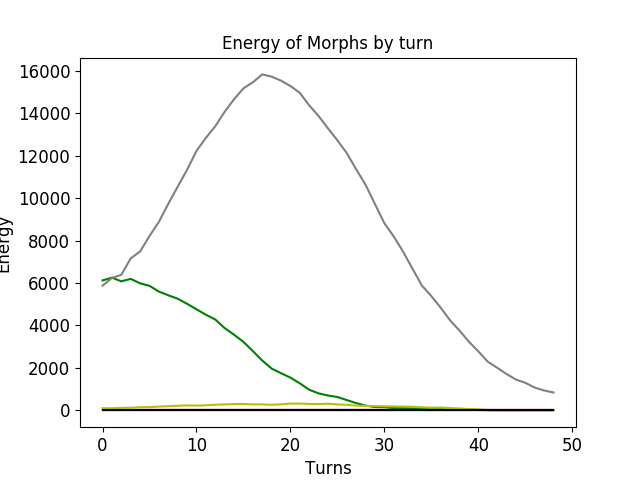
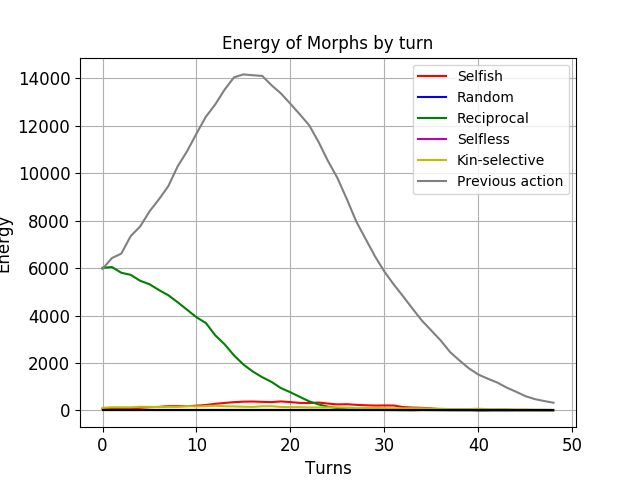
+legend +grid lines

diff --git a/graphing/xybasic.py b/graphing/xybasic.py
@@ -54,35 +54,64 @@ class BasicGraph():
             yValsPopBlack.append(self.results[x][1][config.colourMapping['black']])
 
 
-        plt.plot(xVals, yValsEnergyRed, color = 'r')
-        plt.plot(xVals, yValsEnergyBlue, color = 'b')
-        plt.plot(xVals, yValsEnergyGreen, color = 'g')
-        plt.plot(xVals, yValsEnergyPink, color = 'm')
-        plt.plot(xVals, yValsEnergyYellow, color = 'y')
-        plt.plot(xVals, yValsEnergyWhite, color = 'gray')
-        plt.plot(xVals, yValsEnergyBlack, color = 'k')
+        red, = plt.plot(xVals, yValsEnergyRed, color = 'r')
+        red.set_label('Selfish')
+
+        blue, = plt.plot(xVals, yValsEnergyBlue, color = 'b')
+        blue.set_label('Random')
+
+        green, = plt.plot(xVals, yValsEnergyGreen, color = 'g')
+        green.set_label('Reciprocal')
+
+        pink, = plt.plot(xVals, yValsEnergyPink, color = 'm')
+        pink.set_label('Selfless')
+        
+        yellow, = plt.plot(xVals, yValsEnergyYellow, color = 'y')
+        yellow.set_label('Kin-selective')
+
+        white, = plt.plot(xVals, yValsEnergyWhite, color = 'gray')
+        white.set_label('Previous action')
+
+        black, = plt.plot(xVals, yValsEnergyBlack, color = 'k')
 
         plt.title("Energy of Morphs by turn", fontsize=12)
         plt.xlabel("Turns", fontsize=12)
         plt.ylabel("Energy", fontsize=12)
         plt.tick_params(axis='both', which='major', labelsize=12)
+        plt.grid(True)
+        if(config.randomDistrib == 0): plt.legend()
 
         if(savePlots == 1): plt.savefig('plots/energy')
         plt.show()
 
-        plt.plot(xVals, yValsPopRed, color = 'r')
-        plt.plot(xVals, yValsPopBlue, color = 'b')
-        plt.plot(xVals, yValsPopGreen, color = 'g')
-        plt.plot(xVals, yValsPopPink, color = 'm')
-        plt.plot(xVals, yValsPopYellow, color = 'y')
-        plt.plot(xVals, yValsPopWhite, color = 'gray')
-        plt.plot(xVals, yValsPopBlack, color = 'k')
+        red, = plt.plot(xVals, yValsPopRed, color = 'r')
+        red.set_label('Selfish')
+
+        blue, = plt.plot(xVals, yValsPopBlue, color = 'b')
+        blue.set_label('Random')
+
+        green, = plt.plot(xVals, yValsPopGreen, color = 'g')
+        green.set_label('Reciprocal')
+
+        pink, = plt.plot(xVals, yValsPopPink, color = 'm')
+        pink.set_label('Selfless')
+        
+        yellow, = plt.plot(xVals, yValsPopYellow, color = 'y')
+        yellow.set_label('Kin-selective')
+
+        white, = plt.plot(xVals, yValsPopWhite, color = 'gray')
+        white.set_label('Previous action')
+
+        black, = plt.plot(xVals, yValsPopBlack, color = 'k')
 
         plt.title("Population of Morphs by turn", fontsize=12)
         plt.xlabel("Turns", fontsize=12)
         plt.ylabel("Population", fontsize=12)
         plt.tick_params(axis='both', which='major', labelsize=12)
-        
+        plt.grid(True)
+        if(config.randomDistrib == 0): plt.legend()
+
+       
         if(savePlots == 1): plt.savefig('plots/pop')
         plt.show()
 
